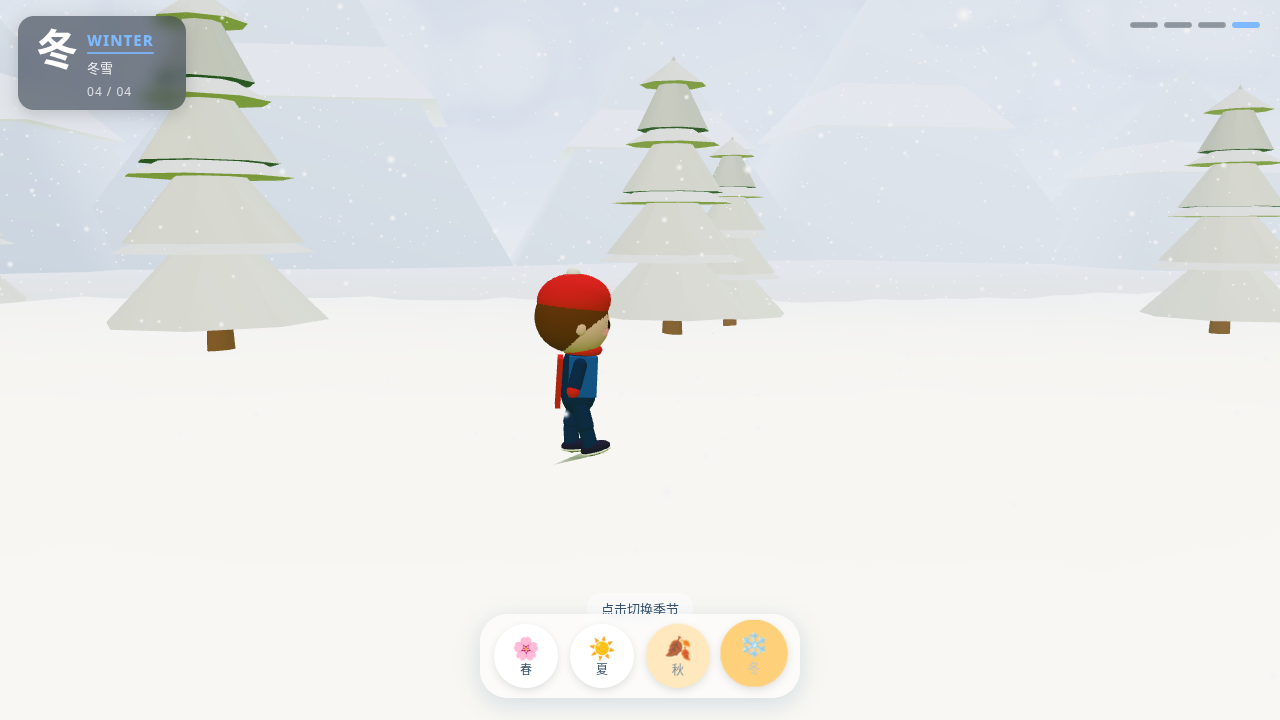
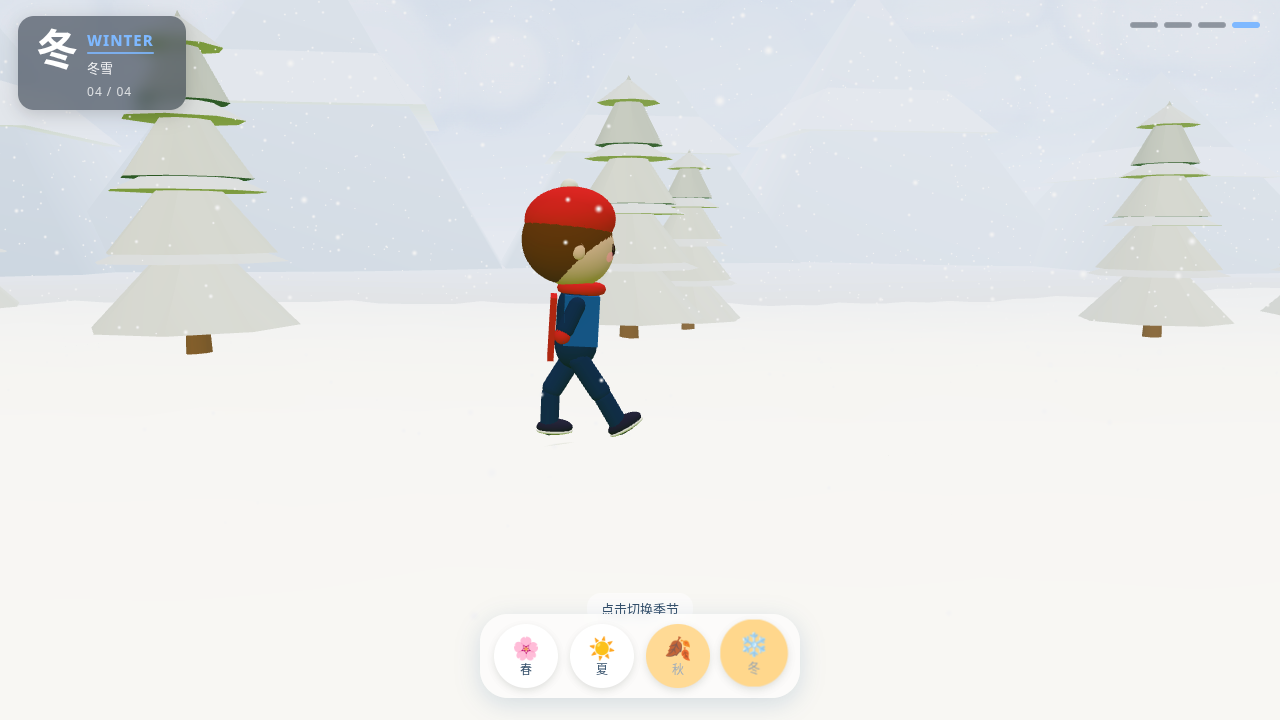
人物放大，优雅大步走
整体缩放加大、腿更长，步幅加大、步频放慢。

diff --git a/main.js b/main.js
@@ -473,7 +473,7 @@ function makeKid(o) {
   const legCol = o.legs || JEANS;
   const legs = [];
   // Two-bone lankier chibi legs (~+40% length); hip higher so feet stay on ground
-  const thighLen = 0.22, shinLen = 0.19, hipY = 0.48;
+  const thighLen = 0.30, shinLen = 0.26, hipY = 0.62;
   for (const sx of [-1, 1]) {
     const thighCol = o.shorts ? o.shorts : legCol;
     const shinCol = o.shorts ? SKIN : legCol;
@@ -485,7 +485,7 @@ function makeKid(o) {
     const sole = sph(0.09, 0xffffff); sole.scale.set(0.92, 0.25, 1.37); sole.position.set(0, -shinLen - 0.005, 0.035); shinPiv.add(sole);
     piv.userData = { thigh, shin: shinPiv }; body.add(piv); legs.push(piv);
   }
-  const torso = new THREE.Group(); torso.position.y = 0.52; body.add(torso);
+  const torso = new THREE.Group(); torso.position.y = 0.68; body.add(torso);
   const tors = cap(0.165, 0.16, o.shirt); tors.scale.set(1, 1, 0.82); tors.position.y = 0.17; torso.add(tors);
   if (o.vest) {
     const vest = new THREE.Mesh(new THREE.BoxGeometry(0.36, 0.32, 0.22), M(o.vest)); vest.position.set(0, 0.18, 0.02); torso.add(vest);
@@ -512,7 +512,7 @@ function makeKid(o) {
     piv.rotation.z = sx * 0.35; piv.rotation.x = 0;
     piv.userData = { base: piv.rotation.z, baseX: piv.rotation.x, sx }; arms.push(piv);
   }
-  const head = new THREE.Group(); head.position.y = 1.11; body.add(head);
+  const head = new THREE.Group(); head.position.y = 1.32; body.add(head);
   const skull = sph(0.27, SKIN, 40, 28); skull.scale.set(1.02, 0.95, 0.95); head.add(skull);
   const onHead = (lat, lon, r = 0.27) => new THREE.Vector3(Math.sin(lon) * Math.cos(lat) * r * 1.02, Math.sin(lat) * r * 0.95, Math.cos(lon) * Math.cos(lat) * r * 0.95);
   for (const sx of [-1, 1]) {
@@ -556,12 +556,12 @@ const kids = [];
   const k = makeKid(d);
   k.position.set(1 + i * 0.01, 0, pathCZ(1));
   k.rotation.y = Math.PI / 2;
-  k.scale.setScalar(1.22);
+  k.scale.setScalar(1.68);
   k.visible = name === 'spring';
   scene.add(k);
   Object.assign(k.userData, {
     season: name, blob: blob(1, pathCZ(1), 0.38, 1.1), heading: Math.PI / 2,
-    walkPh: 0, w: { walk: 1, sit: 0, look: 0 }, act: 'walk', speed: 0.95,
+    walkPh: 0, w: { walk: 1, sit: 0, look: 0 }, act: 'walk', speed: 1.05,
   });
   if (d.umbrella) {
     const g = new THREE.Group();
@@ -843,36 +843,39 @@ function update(dt) {
   hero.userData.heading = Math.PI / 2;
   hero.rotation.y = hero.userData.heading;
   hero.userData.blob.position.set(hero.position.x, hgt(hero.position.x, hero.position.z) + 0.03, hero.position.z + 0.05);
-  // Slow graceful cadence (decoupled from travel speed)
-  hero.userData.walkPh += dt * 5.8;
+  // Elegant large strides: slow cadence, long reach
+  hero.userData.walkPh += dt * 4.2;
   const ph = hero.userData.walkPh;
+  // ease sine for smoother weight transfer
   const wc = Math.sin(ph);
-  const armW = Math.sin(ph - 0.35);
+  const armW = Math.sin(ph - 0.4);
   const u = hero.userData;
-  const stride = 0.48; // softer, prettier stride
+  const stride = 0.78; // big elegant step
   u.legs.forEach((l, i) => {
     const side = i ? 1 : -1;
-    l.rotation.x = side * wc * stride;
-    l.rotation.z = 0;
-    // Gentle knee bend only on the swinging forward half
+    // slight ease-in-out on thigh
+    const ang = side * wc * stride;
+    l.rotation.x = ang;
+    l.rotation.z = side * wc * 0.04;
+    // knee opens on rear leg, folds gently on forward swing
     const swing = Math.max(0, side * wc);
-    if (l.userData.shin) l.userData.shin.rotation.x = -swing * 0.55;
+    const rear = Math.max(0, -side * wc);
+    if (l.userData.shin) l.userData.shin.rotation.x = -swing * 0.72 + rear * 0.08;
   });
-  // Soft double-step bob
   const bob = Math.sin(ph * 2);
-  u.body.position.y = bob * bob * 0.018;
-  u.torso.scale.y = 1 + Math.sin(simTime * 1.2 + u.ph) * 0.008;
-  u.torso.rotation.x = 0.05;
-  u.torso.rotation.y = -wc * 0.035;
-  u.head.rotation.x = -0.02;
-  u.head.rotation.z = Math.sin(simTime * 0.5 + u.ph) * 0.02;
-  u.head.position.set(0, 1.11, 0);
+  u.body.position.y = bob * bob * 0.028;
+  u.torso.scale.y = 1 + Math.sin(simTime * 1.0 + u.ph) * 0.006;
+  u.torso.rotation.x = 0.06;
+  u.torso.rotation.y = -wc * 0.05;
+  u.head.rotation.x = -0.025;
+  u.head.rotation.z = Math.sin(simTime * 0.45 + u.ph) * 0.018;
+  u.head.position.set(0, 1.32, 0);
   u.arms.forEach((a, i) => {
     const sx = a.userData.sx;
-    if (u.umb && i === 1) { a.rotation.z = 2.6; a.rotation.x = -0.12; }
-    else { a.rotation.z = sx * 0.28; a.rotation.x = (i ? -1 : 1) * armW * 0.32; }
+    if (u.umb && i === 1) { a.rotation.z = 2.55; a.rotation.x = -0.1; }
+    else { a.rotation.z = sx * 0.22; a.rotation.x = (i ? -1 : 1) * armW * 0.45; }
   });
-  if (u.umb) { u.umb.g.visible = true; u.umb.g.position.set(0.1, 1.04 + u.body.position.y, 0); u.umb.can.scale.set(1, 1, 1); }
+  if (u.umb) { u.umb.g.visible = true; u.umb.g.position.set(0.12, 1.28 + u.body.position.y, 0); u.umb.can.scale.set(1, 1, 1); }
 
   kids.forEach((kd, i) => {
     if (!kd.position) return;
@@ -903,10 +906,10 @@ function update(dt) {
 
   // camera side-scroll follow — lag behind so hero walks into center
   const desiredCamX = hero.position.x;
-  const desiredCamY = 2.35;
-  const desiredCamZ = 9.2;
+  const desiredCamY = 2.55;
+  const desiredCamZ = 10.4;
   const desiredTgtX = hero.position.x;
-  const desiredTgtY = 1.05;
+  const desiredTgtY = 1.25;
   const desiredTgtZ = 0.0;
   const ck = 1 - Math.exp(-dt * 1.15); // slower than hero
   camera.position.x += (desiredCamX - camera.position.x) * ck;

diff --git a/index.html b/index.html
@@ -56,6 +56,6 @@ document.querySelectorAll('#ui button').forEach(function(b){ b.addEventListener(
   if (window.setWeather) window.setWeather(b.dataset.w); else window.__pendingWeather = b.dataset.w; }); });
 window.addEventListener('error', function(e){ var d=document.getElementById('err'); d.style.display='block'; d.textContent='3D 场景加载出错：' + (e.message||e); });
 </script>
-<script type="module" src="./main.js?v=1792756200"></script>
+<script type="module" src="./main.js?v=1792757800"></script>
 </body>
 </html>
